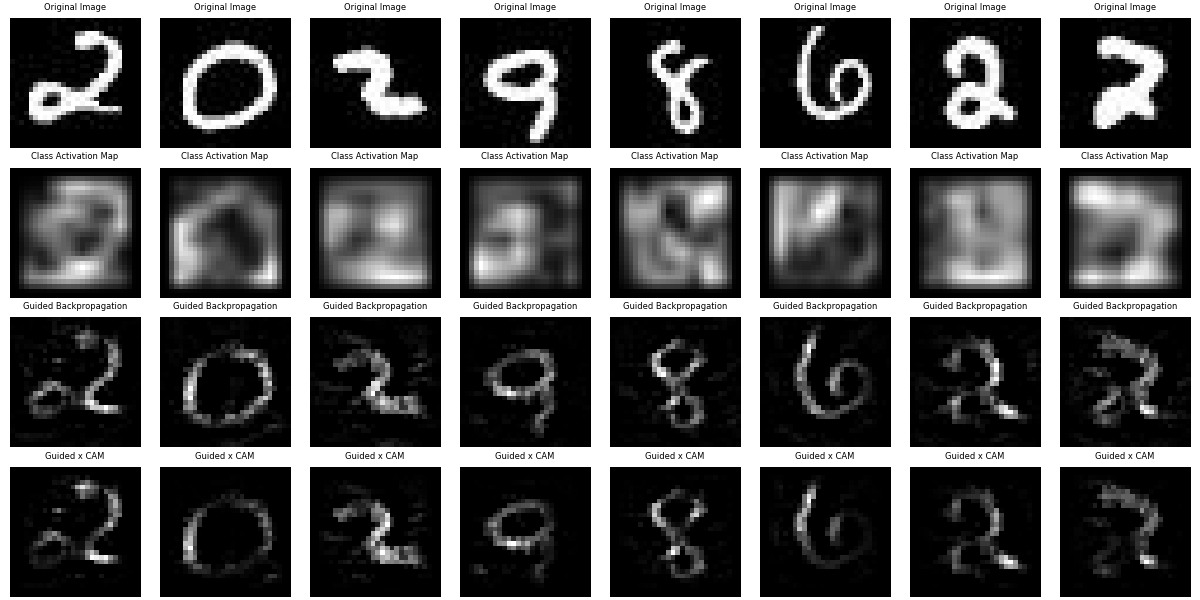
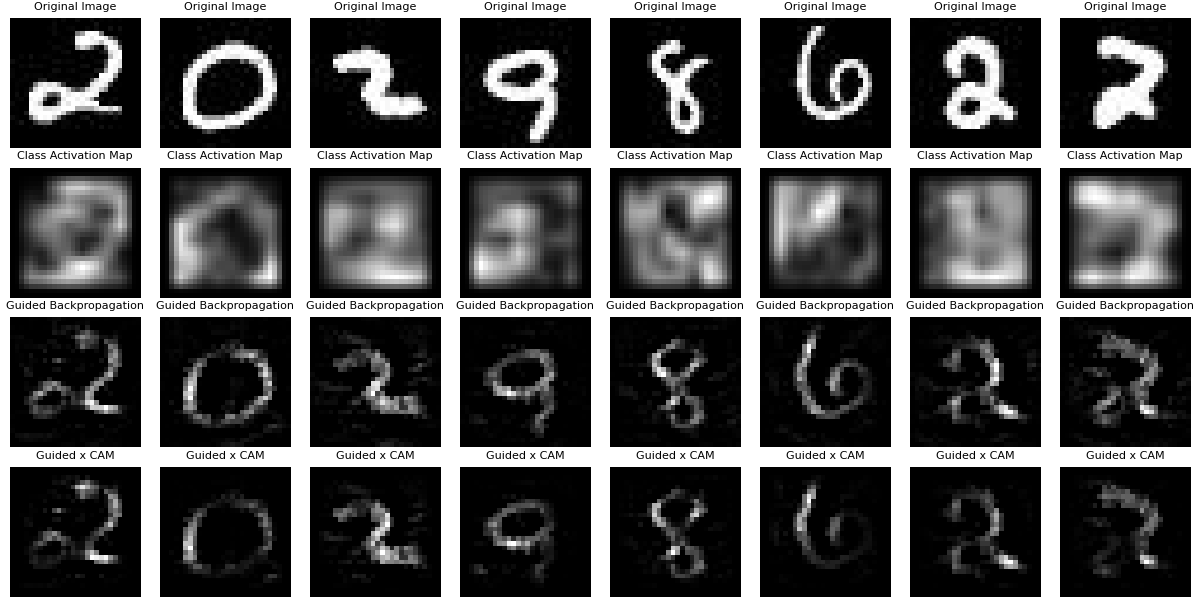
Larger title for each plot.

diff --git a/4/T12902101_a4.py b/4/T12902101_a4.py
@@ -50,7 +50,7 @@ feature_maps = []
 def plot(img, idx, name):
     plt.subplot(4, testing_images_count, idx)
     plt.imshow(img, cmap="grey")
-    plt.title(name, fontsize=6)
+    plt.title(name, fontsize=8)
     plt.axis("off")
 
 
